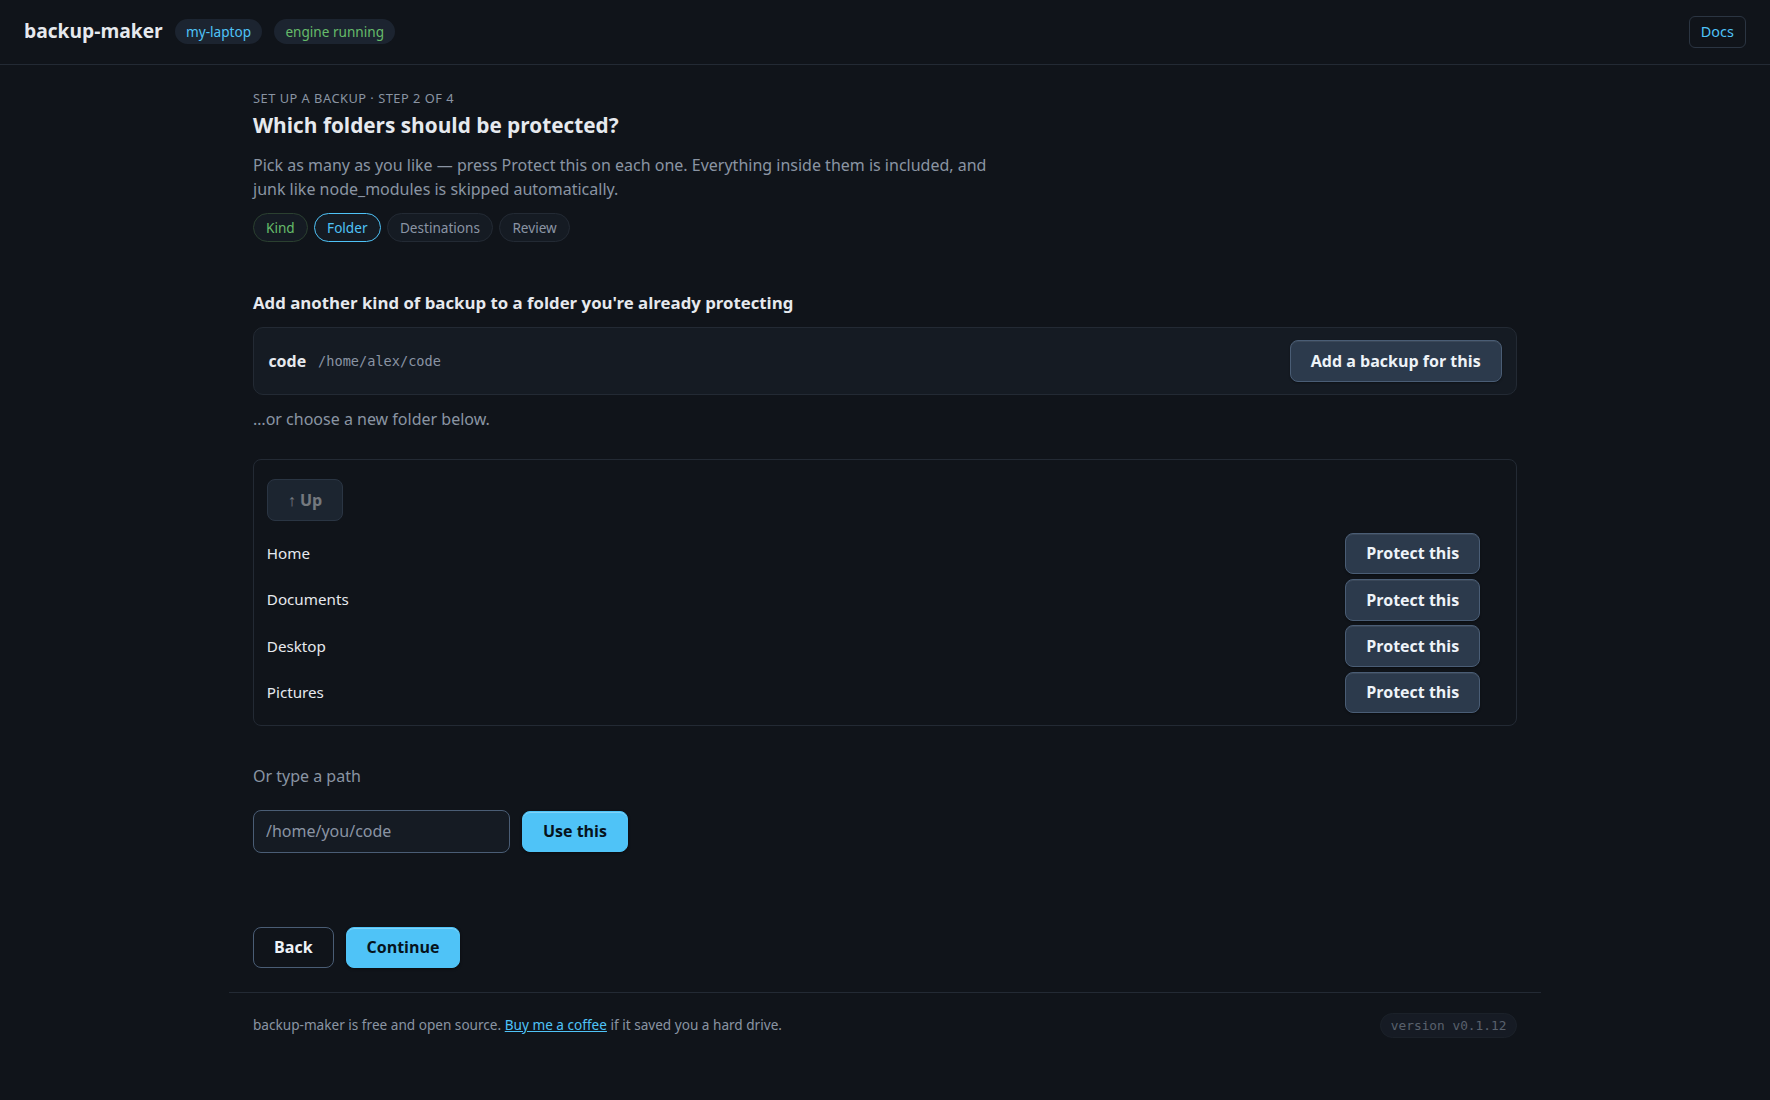
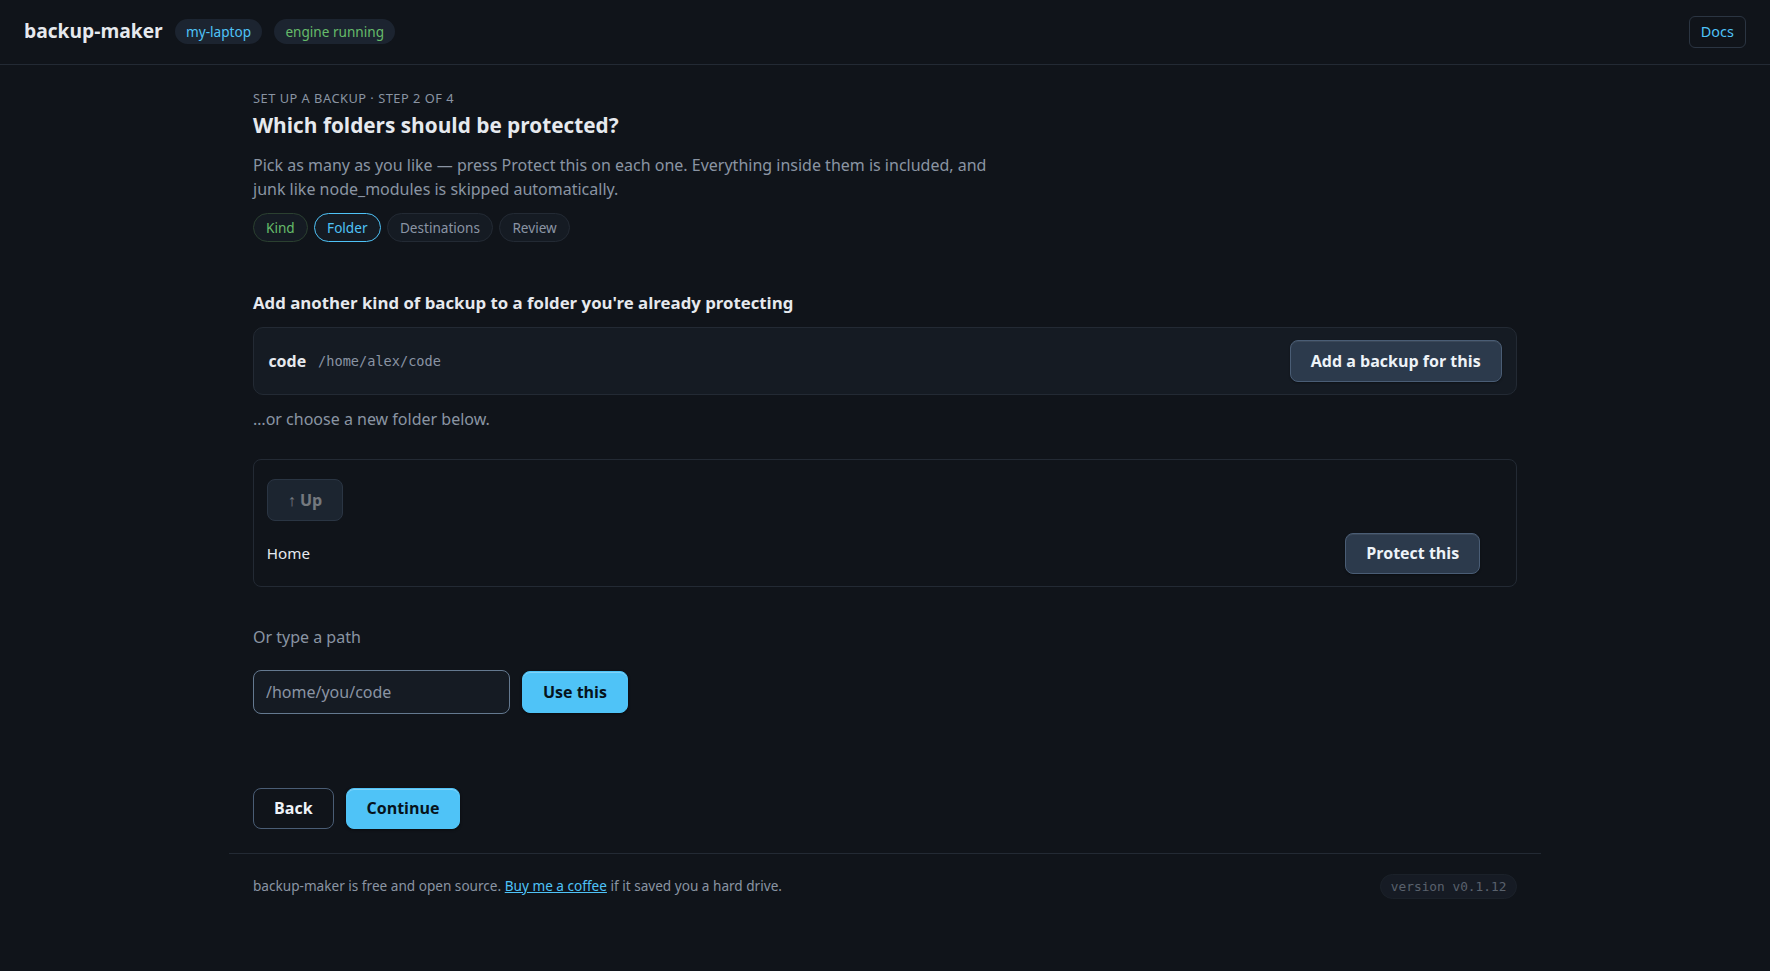
The folder picker stops offering a folder beside its own parent
The picker listed Documents, Desktop, Pictures, Music and Videos next to
Home, as shortcuts to the places people keep things. They stopped being
shortcuts when the step began accepting more than one folder: a parent and
five of its children, presented as a flat list of equals, on the step that
asks which folders to protect. Choosing Home and Documents there means
copying those files twice to every destination, for ever, and packing two
copies of each into every snapshot. The folders inside home are reached by
opening home, which is what a folder picker is for.

The rule is written down rather than the list — no root may contain another
— so a mount point added here later cannot quietly recreate it.

A folder inside one already picked now says it is protected, because it is:
everything in a backed-up folder is backed up. It used to read "Protect
this" while sitting under a folder drawn green two rows above, and pressing
it was refused. It is green and inert instead, and says which folder covers
it.

Hidden folders sort last now, which the shortcuts had been covering up: a
dot sorts before every letter, so opening a home directory answered with
twenty dot-directories before Desktop. They are still listed, and that is
deliberate — ~/.ssh and ~/.config are exactly the sort of thing somebody
means to protect, and a picker that leaves them out lets a person set up a
backup they believe is complete and is not.
[…]

diff --git a/internal/webui/static/wizard.js b/internal/webui/static/wizard.js
@@ -63,6 +63,16 @@ const Wizard = (() => {
   function isPicked(path) {
     return picked.has(trimSlash(path));
   }
+
+  // The picked folder that already contains this one, or "" if none does.
+  function coveredBy(path) {
+    const want = trimSlash(path);
+    if (!want) return '';
+    for (const { path: have } of picked.values()) {
+      if (contains(trimSlash(have), want)) return trimSlash(have);
+    }
+    return '';
+  }
   const chosen = new Map();
 
   function mode() {
@@ -270,13 +280,25 @@ const Wizard = (() => {
   function syncPickButtons() {
     const mark = (btn, offLabel) => {
       if (!btn) return;
-      const on = isPicked(btn.dataset.path || '');
-      btn.classList.toggle('pick-chosen', on);
-      btn.textContent = on ? 'Protected' : offLabel;
-      btn.setAttribute('aria-pressed', on ? 'true' : 'false');
-      btn.title = on
-        ? 'Picked. Press again to leave it out. You can pick as many folders as you like.'
-        : 'Back up ' + (btn.dataset.path || 'this folder');
+      const path = btn.dataset.path || '';
+      const on = isPicked(path);
+      // COVERED BY A FOLDER ALREADY PICKED, which is protected just as surely
+      // as the one that was clicked: everything inside a backed-up folder is
+      // backed up. It read "Protect this" — inviting a press that was then
+      // refused — while sitting inside a folder drawn green two rows above.
+      // Green, so the answer to "is this protected?" is the same colour
+      // wherever it is asked; disabled, because it is not a choice of its own
+      // and the way to change it is to unpick the folder that covers it.
+      const cover = on ? '' : coveredBy(path);
+      btn.classList.toggle('pick-chosen', on || !!cover);
+      btn.disabled = !!cover;
+      btn.textContent = (on || cover) ? 'Protected' : offLabel;
+      btn.setAttribute('aria-pressed', on || cover ? 'true' : 'false');
+      btn.title = cover
+        ? `Already protected: it is inside ${cover}, which you have picked. Everything in there is backed up.`
+        : on
+          ? 'Picked. Press again to leave it out. You can pick as many folders as you like.'
+          : 'Back up ' + (path || 'this folder');
     };
     for (const b of document.querySelectorAll('#pick-list .pick-use')) mark(b, 'Protect this');
     mark($('pick-here'), 'Protect this folder');

diff --git a/internal/webui/static/style.css b/internal/webui/static/style.css
@@ -792,6 +792,24 @@ button.link:active:not(:disabled) { transform: none; box-shadow: none; }
   border-color: color-mix(in srgb, var(--ok) 88%, white);
 }
 
+/* PROTECTED BECAUSE SOMETHING ABOVE IT IS. Still green — the answer to "is this
+   backed up?" should not change colour depending on which row you ask — but
+   dimmer and inert, because it is not a choice of its own.
+   Spelled out rather than left to button:disabled, which drops to 45% opacity
+   and, on hover, resets the background to the default face: near-black ink on a
+   near-black button, which is the exact fault the wizard's finish button
+   shipped with. */
+.picker-list .pick-use.pick-chosen:disabled,
+#pick-here.pick-chosen:disabled,
+.picker-list .pick-use.pick-chosen:disabled:hover,
+#pick-here.pick-chosen:disabled:hover {
+  opacity: 1;
+  background: color-mix(in srgb, var(--ok) 50%, #10141a);
+  border-color: color-mix(in srgb, var(--ok) 50%, #10141a);
+  color: #eef3f8;
+  cursor: default;
+}
+
 /* .chosen is a flex ROW, written when this said one line — "Protecting: /path"
    and a button. Holding a list of folders, that row put the heading, the list
    and Deselect all side by side across the step. It stacks here instead; the

diff --git a/internal/browse/browse.go b/internal/browse/browse.go
@@ -131,7 +131,24 @@ func Dirs(path string) (Listing, error) {
 	if err != nil {
 		return Listing{}, err
 	}
+	// HIDDEN FOLDERS SORT LAST, AND ARE STILL LISTED.
+	//
+	// Alphabetically a dot sorts before every letter, so opening a home
+	// directory answered with .cache, .config, .cursor and a dozen more before
+	// Desktop or Documents — about twenty rows of things nobody came here for,
+	// in front of the two everybody does. That only became the first thing the
+	// picker shows when Roots stopped listing Documents and Desktop beside Home.
+	//
+	// SORTED, NOT HIDDEN. This is a backup tool: ~/.ssh, ~/.config and ~/.gnupg
+	// are exactly the sort of thing somebody means to protect, and a picker that
+	// leaves them out by default would let a person set up a backup they believe
+	// is complete and is not. Ordering costs them nothing; concealment could
+	// cost them the files.
 	sort.Slice(names, func(i, j int) bool {
+		hi, hj := strings.HasPrefix(names[i], "."), strings.HasPrefix(names[j], ".")
+		if hi != hj {
+			return hj
+		}
 		return strings.ToLower(names[i]) < strings.ToLower(names[j])
 	})
 
@@ -177,19 +194,48 @@ func escapes(parent, child string) bool {
 	return rel == ".." || strings.HasPrefix(rel, ".."+string(filepath.Separator))
 }
 
-// Roots are the sensible starting points for the picker: the home directory
-// first, then the well-known folders inside it that actually exist.
+// Roots are the starting points for the picker: the home directory, and nothing
+// that lives inside it.
+//
+// IT USED TO LIST Documents, Desktop, Pictures, Music AND Videos BESIDE Home,
+// as shortcuts. They are not shortcuts once the picker can choose more than one
+// folder — they are a parent and five of its children presented as a flat list
+// of equals, and the step's question is which folders to protect. Choosing Home
+// and Documents there means copying those files twice to every destination, for
+// ever, and packing two copies of each into every snapshot. The wizard now
+// refuses that pairing, but a list that invites it and is then refused is a
+// worse answer than a list that never offered it: the folders inside home are
+// reached by opening home, which is what a folder picker is for.
+//
+// NO ROOT MAY CONTAIN ANOTHER, which is the rule rather than the current list —
+// so a mount point added here later cannot quietly recreate the same trap.
 func Roots() []Entry {
 	home, err := os.UserHomeDir()
 	if err != nil {
 		return nil
 	}
-	roots := []Entry{{Name: "Home", Path: home}}
-	for _, name := range []string{"Documents", "Desktop", "Pictures", "Music", "Videos"} {
-		p := filepath.Join(home, name)
-		if fi, err := os.Stat(p); err == nil && fi.IsDir() {
-			roots = append(roots, Entry{Name: name, Path: p})
+	return withoutNested([]Entry{{Name: "Home", Path: home}})
+}
+
+// withoutNested drops any entry that sits inside another one.
+func withoutNested(in []Entry) []Entry {
+	out := make([]Entry, 0, len(in))
+	for i, e := range in {
+		nested := false
+		for j, other := range in {
+			if i == j {
+				continue
+			}
+			rel, err := filepath.Rel(other.Path, e.Path)
+			if err != nil || rel == "." || rel == ".." || strings.HasPrefix(rel, ".."+string(filepath.Separator)) {
+				continue
+			}
+			nested = true
+			break
+		}
+		if !nested {
+			out = append(out, e)
 		}
 	}
-	return roots
+	return out
 }

diff --git a/internal/browse/browse_test.go b/internal/browse/browse_test.go
@@ -6,6 +6,7 @@ import (
 	"os"
 	"path/filepath"
 	"strconv"
+	"strings"
 	"testing"
 )
 
@@ -140,5 +141,86 @@ func TestRootsStartAtHome(t *testing.T) {
 	}
 	if roots[0].Name != "Home" {
 		t.Errorf("first root = %q, want Home so the picker opens somewhere familiar", roots[0].Name)
+	}
+}
+
+// THE GUARANTEE: the picker never offers a folder beside the folder that
+// contains it.
+//
+// Roots used to list Documents, Desktop, Pictures, Music and Videos next to
+// Home. Once the wizard could choose several folders that stopped being a
+// shortcut and became a trap: picking Home and Documents means copying those
+// files twice to every destination and packing two copies into every snapshot.
+func TestNoRootContainsAnother(t *testing.T) {
+	roots := Roots()
+	if len(roots) == 0 {
+		t.Skip("no home directory in this environment")
+	}
+	for i, a := range roots {
+		for j, b := range roots {
+			if i == j {
+				continue
+			}
+			rel, err := filepath.Rel(a.Path, b.Path)
+			if err != nil {
+				continue
+			}
+			if rel != ".." && !strings.HasPrefix(rel, ".."+string(filepath.Separator)) && rel != "." {
+				t.Errorf("%q (%s) is inside %q (%s): the picker would offer a folder "+
+					"beside its own parent, and choosing both backs those files up twice",
+					b.Name, b.Path, a.Name, a.Path)
+			}
+		}
+	}
+}
+
+// And the rule itself, rather than today's list: an entry inside another is
+// dropped, so adding a mount point here later cannot recreate the trap.
+func TestWithoutNestedDropsAFolderInsideAnother(t *testing.T) {
+	got := withoutNested([]Entry{
+		{Name: "Home", Path: filepath.Join("/home", "alex")},
+		{Name: "Documents", Path: filepath.Join("/home", "alex", "Documents")},
+		{Name: "Card", Path: filepath.Join("/media", "alex", "SDCARD")},
+	})
+	var names []string
+	for _, e := range got {
+		names = append(names, e.Name)
+	}
+	if len(names) != 2 || names[0] != "Home" || names[1] != "Card" {
+		t.Errorf("kept %v, want Home and Card: a folder inside home must go, "+
+			"and a separate drive must stay", names)
+	}
+}
+
+// THE GUARANTEE: hidden folders come last, and they still come.
+//
+// A dot sorts before every letter, so a home directory answered with twenty
+// dot-directories before Desktop. Sorting them last fixes that; hiding them
+// would not, because ~/.ssh and ~/.config are things people deliberately back
+// up, and a picker that omits them lets somebody set up a backup they believe
+// is complete and is not.
+func TestHiddenFoldersSortLastButAreStillListed(t *testing.T) {
+	dir := t.TempDir()
+	for _, name := range []string{".cache", ".config", "Desktop", "Documents", ".ssh", "apps"} {
+		if err := os.Mkdir(filepath.Join(dir, name), 0o755); err != nil {
+			t.Fatal(err)
+		}
+	}
+	got, err := Dirs(dir)
+	if err != nil {
+		t.Fatal(err)
+	}
+	var names []string
+	for _, e := range got.Entries {
+		names = append(names, e.Name)
+	}
+	want := []string{"apps", "Desktop", "Documents", ".cache", ".config", ".ssh"}
+	if strings.Join(names, ",") != strings.Join(want, ",") {
+		t.Errorf("listing order = %v, want %v", names, want)
+	}
+	for _, hidden := range []string{".cache", ".config", ".ssh"} {
+		if !strings.Contains(strings.Join(names, ","), hidden) {
+			t.Errorf("%s was not listed at all — a folder somebody may want to back up is unreachable", hidden)
+		}
 	}
 }

diff --git a/tools/screenshots/wizardmock.py b/tools/screenshots/wizardmock.py
@@ -34,11 +34,14 @@ TREE = {
     f"{HOME}/notes": [],
 }
 
+# Home alone, matching browse.Roots(). It used to list Documents, Desktop and
+# Pictures beside it, and so did the product — until the picker could choose
+# several folders and offering a parent next to its children became a way to
+# back the same files up twice. This mock is what the shipped screenshots are
+# taken from, so a stale copy of the old list here would publish a picker
+# nobody has.
 ROOTS = [
     {"name": "Home", "path": HOME},
-    {"name": "Documents", "path": f"{HOME}/Documents"},
-    {"name": "Desktop", "path": f"{HOME}/Desktop"},
-    {"name": "Pictures", "path": f"{HOME}/Pictures"},
 ]
 
 MACHINES = [

diff --git a/tools/screenshots/shootwizard.py b/tools/screenshots/shootwizard.py
@@ -69,7 +69,12 @@ def into_desktop(page):
     picker has something to show: a path bar, the "Protect this folder" action for
     the directory you are standing in, and entries with their own buttons.
     """
-    page.click("#wizard button:text-is('Desktop')")
+    # Through Home, because the roots list is Home alone now: the folders inside
+    # it are reached by opening it, which is the change this harness has to show
+    # rather than paper over.
+    page.click("#wizard button:text-is('Home')")
+    settle(page)
+    page.click("#wizard button:text-is('📁 Desktop')")
     settle(page)
 
 
